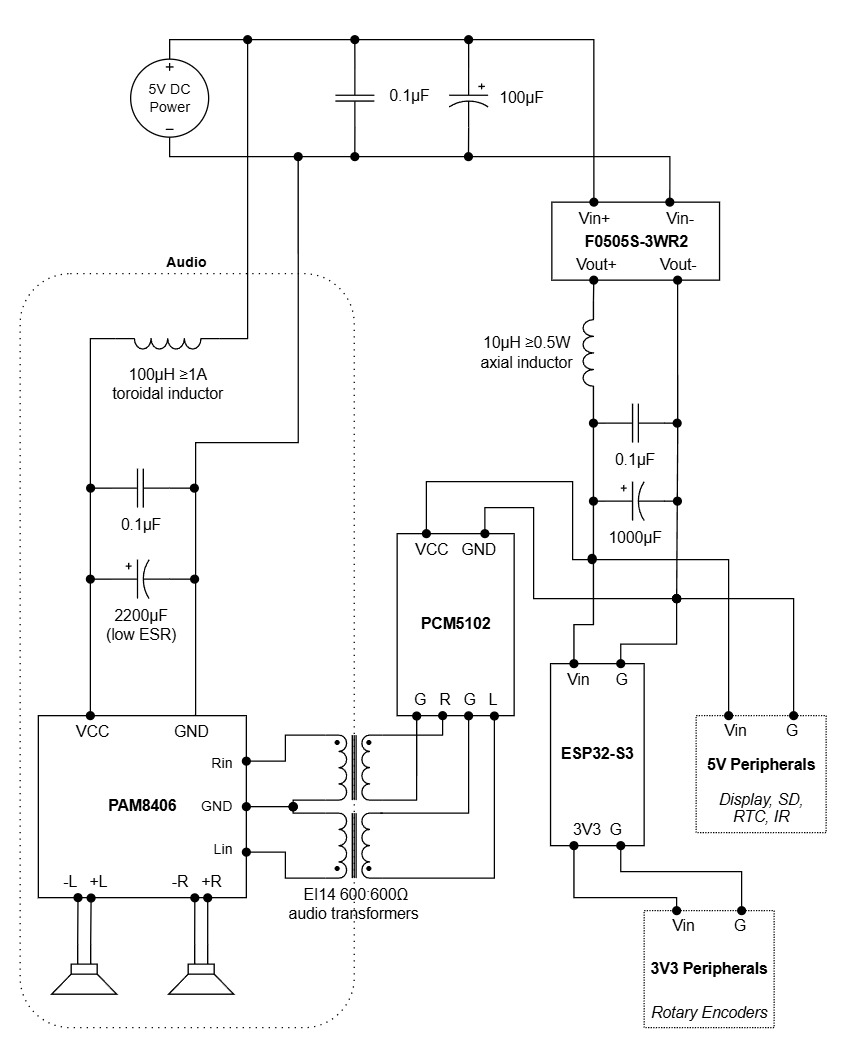
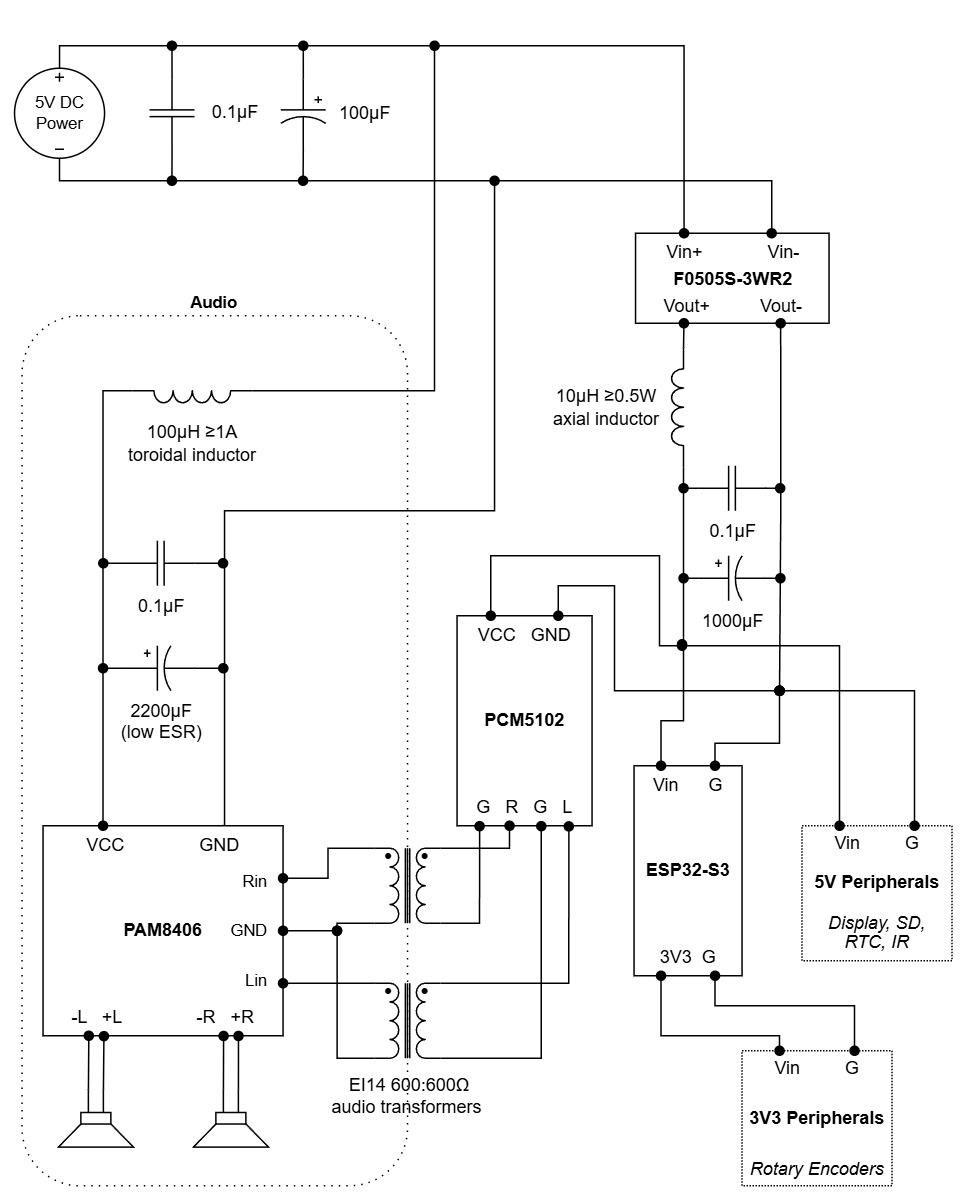
2026.08.19

diff --git a/src/core/startup.cpp b/src/core/startup.cpp
@@ -316,6 +316,8 @@ void Startup::getRequiredFiles() {
       if (!success) {
         display.updateProgress(l10n(L10N_MSG_UPD_FAILED), 0.0f);
         delay(3000);
+        if (config.getMode() == PM_SDCARD) config.store.play_mode = PM_WEB; // Force away from SD mode so playback can't escape LOST
+        player.sendCommand({PR_STOP, 0});
         display.putRequest(NEWMODE, LOST);
         delete updater;
         return;

diff --git a/builds/trip5/myoptions.h b/builds/trip5/myoptions.h
@@ -211,8 +211,7 @@
   #define BTN_UP             15
   #define WAKE_PIN           18
 #elif defined(ST7735_PCM_1BUTTON) || defined(ILI9488_PCM_1BUTTON) || defined(ILI9488_VS1053_1BUTTON)
-  #define BTN_DOWN 42
-  //#define BTN_NEXT           42
+  #define BTN_NEXT           42
 #elif defined(ES3C28P)
   #define TS_MODEL           TS_MODEL_FT6336
   #define TS_SDA             16

diff --git a/src/core/options.h b/src/core/options.h
@@ -2,7 +2,7 @@
 #define options_h
 #pragma once
 
-#define RADIOVERSION "2026.08.13"
+#define RADIOVERSION "2026.08.19"
 
 /*******************************************************
 THIS FILE IS THE DEFINITIVE HANDLER OF COMPILE OPTIONS.

diff --git a/Hardware.md b/Hardware.md
@@ -358,7 +358,7 @@ You can read some (untested) schematics to achieve [Audio/Power Isolation](Isola
 
 ehRadio can be built with various control methods, including rotary encoders, buttons, an IR receiver, touchscreen, WebUI, Home Assistant, MQTT, Telnet, and HTTP.
 
-The most basic physical control is a rotary encoder.  All functions can be accomplished with just one encoder.
+The most basic physical control is a rotary encoder.  All major functions can be accomplished with just one encoder.
 
 Buttons may also be used. Touch is swipe and tap motions only.
 
@@ -377,7 +377,7 @@ Deep sleep may be explicitly disabled with `#define DEEP_SLEEP_DISABLE` in `myop
 
 The KY-040 module is very easy to setup.  It includes the correct resistors onboard.
 
-Other rotary encoders like the EC11 may also be used but may require 10KΩ resistors to tie `CLK` and `DT` to Ground.
+Other rotary encoders like the EC11 may also be used but may require 10KΩ resistors to pull down `CLK` and `DT` to Ground.
 
 ### Buttons
 
@@ -398,21 +398,29 @@ IR receivers like the VS1838 are cheap and work well.  You may need a pullup res
 An SD card reader may be added to the build. It is recommended to be wary of SD readers built onto displays.
 Although some may work, it is well-known that some may be lacking proper resistors or will interfere with display because it is forced onto the same SPI bus.
 
-SD reader modules like this are cheap and work well. Some come with a power regulator but this may not be necessary.
+It is highly recommended to use an SD card reader with a power regulator and a 74VHCT125A buffer.
+If needing to make this type fit with a case, the excess PCB around the slot may be cut off carefully with a knife, sandpaper, or grinding tool.
+Wear a mask if filing or grinding! Fiberglass is bad for your lungs!
 
-![image](images/hardware/sdreader.jpg) ![image](images/hardware/sdreader2.jpg)
+![image](images/hardware/sdreader.jpg)
+
+A simpler SD card reader may work but may cause random, unsolvable issues.
+Do not use on the same SPI bus as other devices.
+
+![image](images/hardware/sdreader2.jpg)
 
 It is recommended to encode files on SD card using MP3 at a constant bit rate of 256kbps or less
 to avoid system stress and get maximum compatibility with the decoders.
+ABR and CBR encoding may work (mostly) but may also result in pops and clicks.
 Errors/bugs could happen if you use other codecs or too-high bitrates or other codecs.
 
 ### SD Cards
 
 SD cards on these cheap SD readers can be pretty finicky.
-Certain brands are known to work better than others.
-Sandisks and Samsungs are recommended.
+Certain brands are known to work better than others: Sandisks and Samsungs are recommended.
 Make sure it's "Class 10" or "UHS-I U1" and formatted FAT32.
-Smaller sizes may also work better.
+Smaller sizes (32GB and smaller) may also work better.
+Windows disk format does not like formatting larger SD cards but the command line `format /FS:FAT32 X: /Q` will work for larger sizes.
 
 When in doubt or experiencing problems, try a different SD card.
 
@@ -423,7 +431,7 @@ The [SD Offline mode](README.md#sd-offline-mode) should be considered as a "fall
 By default, all buttons and encoder switches can be used to enter this mode on boot.
 If you wish to use a special pin, add something like `#define SDOFFLINE_BTN 2` or `#define SDOFFLINE_BTN BTN_DOWN` to `myoptions.h`.
 
-`TS_INT` cannot be used for this purpose as the touchscreen leaves it floating at boot.
+`TS_INT` cannot be used for this purpose as the touchscreen is floating at boot.
 
 Remember that certain GPIOs may cause issues if held while powering-up (so best not to attach buttons to `GPIO0` or `GPIO3`).
 Most users will not remember the difference between "shortly after power-up" and "during power-up".

diff --git a/README.md b/README.md
@@ -129,7 +129,7 @@ There are tools in the codebase to assist with translation work but hand-editing
 
 When in doubt or having issues, check the serial output.  Serial output logs show a lot of useful information.
 Add `#define ALL_DEBUG_LOGS` to your `myoptions.h` to view extended diagnostic information.
-Connecting via telnet will also show serial logs.
+Connecting to the radio via telnet will also show serial logs.
 
 ---
 
@@ -196,6 +196,7 @@ Below here are some sketches and helpful hints to building one of the "prebuilt"
 If you already have a good idea on how the hardware works and would just like to use a prebuilt binary,
 check out the [Releases](https://github.com/trip5/ehRadio/releases/) and click on a link to open the generator with that binary's profile,
 which includes hardware needed, pins to connect, and more.
+There is also a `no_display` build here if you just wish to test functionality.
 
 Note that if following this path, you don't necessarily to attach all peripherals (rotary, buttons, IR Receiver, SD card, display).
 The radio needs only the ESP board and the audio decoder to function... although your WebUI may show links to peripherals that don't exist.
@@ -313,6 +314,7 @@ For that and other major needed changes to the codebase, there is a `code-issues
 
 | Date       | Release Notes    |
 | ---------- | ---------------- |
+| 2026.08.19 | Stability and bug fixes (SD Offline), documentation |
 | 2026.08.13 | Memory usage, stability, and bug fixes (especially to SD, VS1053) |
 | 2026.08.03 | Minor fixes (and whoops) fixed Search and Curated |
 | 2026.07.31 | Layouts and Themes changeable while running, various fixes to touchscreen, font glyph fallback behaviour, battery functions simplified, playlist verification, localization 100%? |
